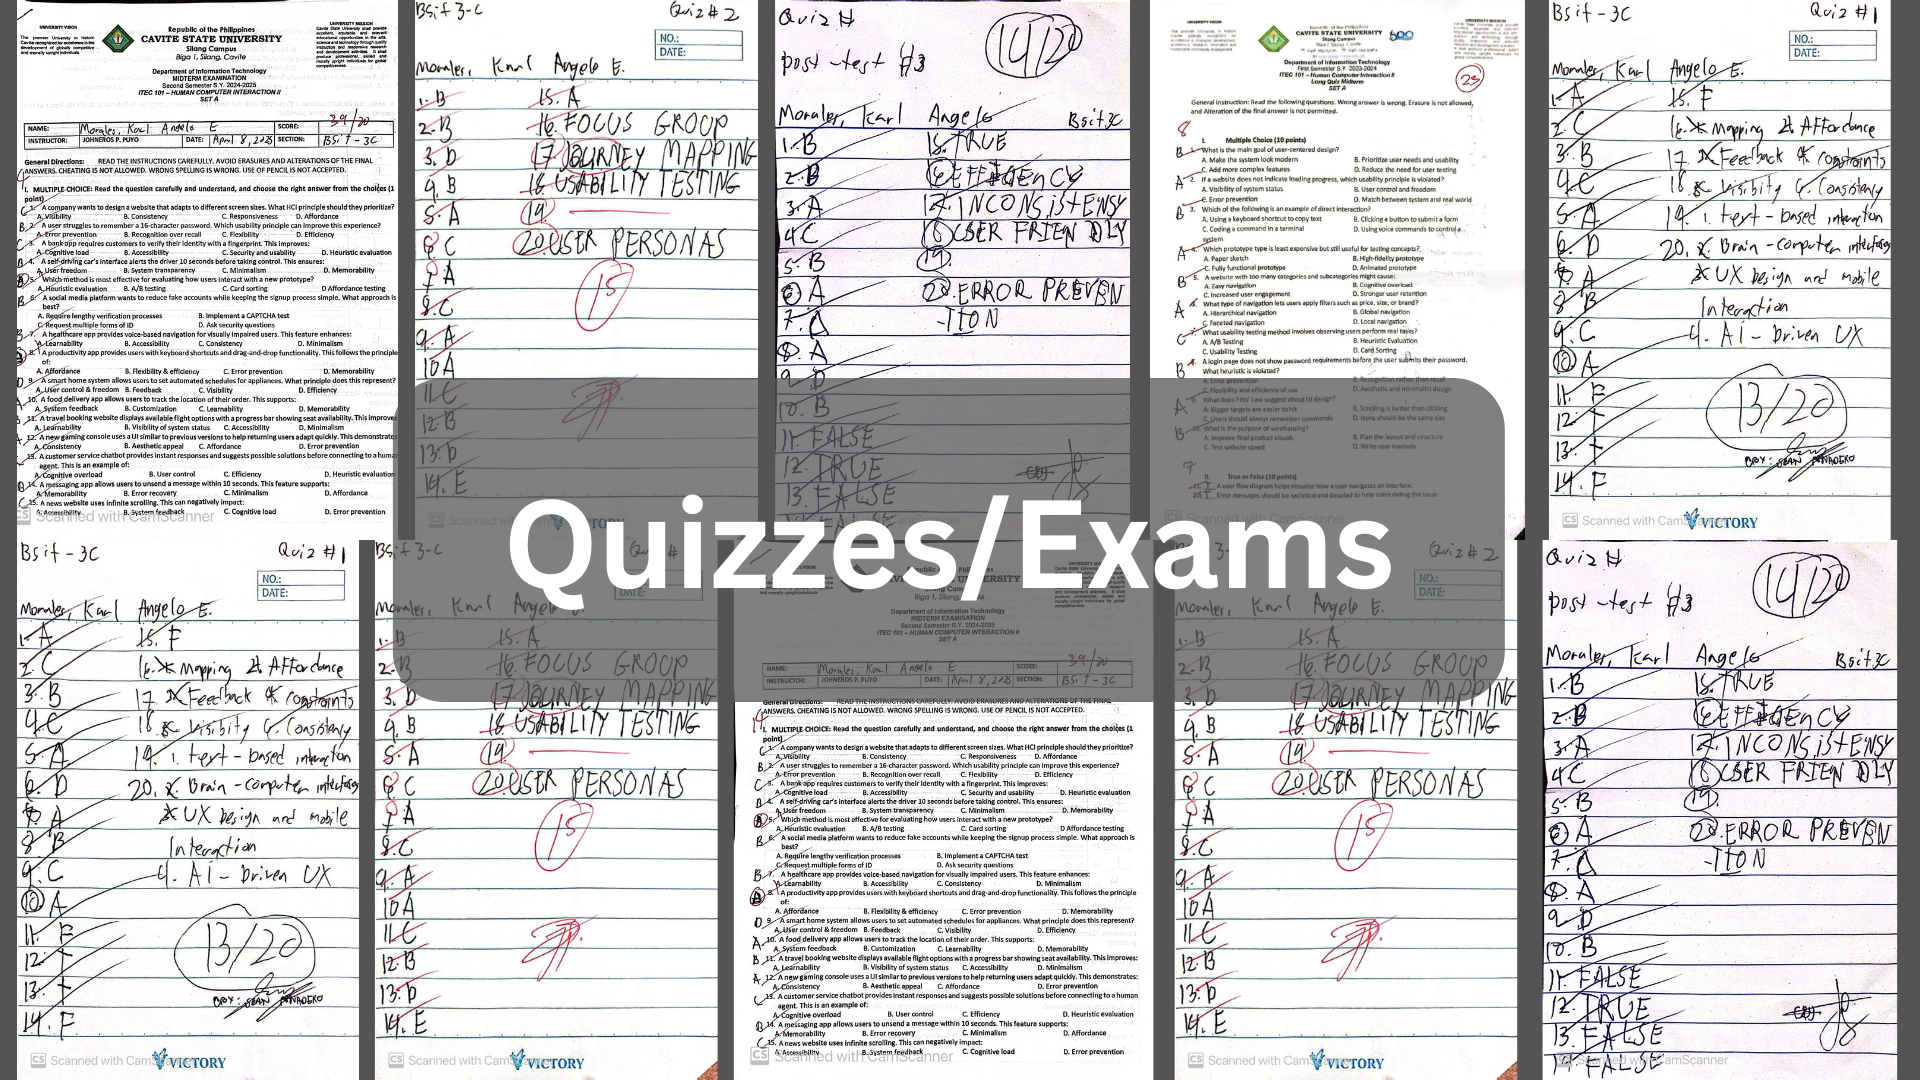
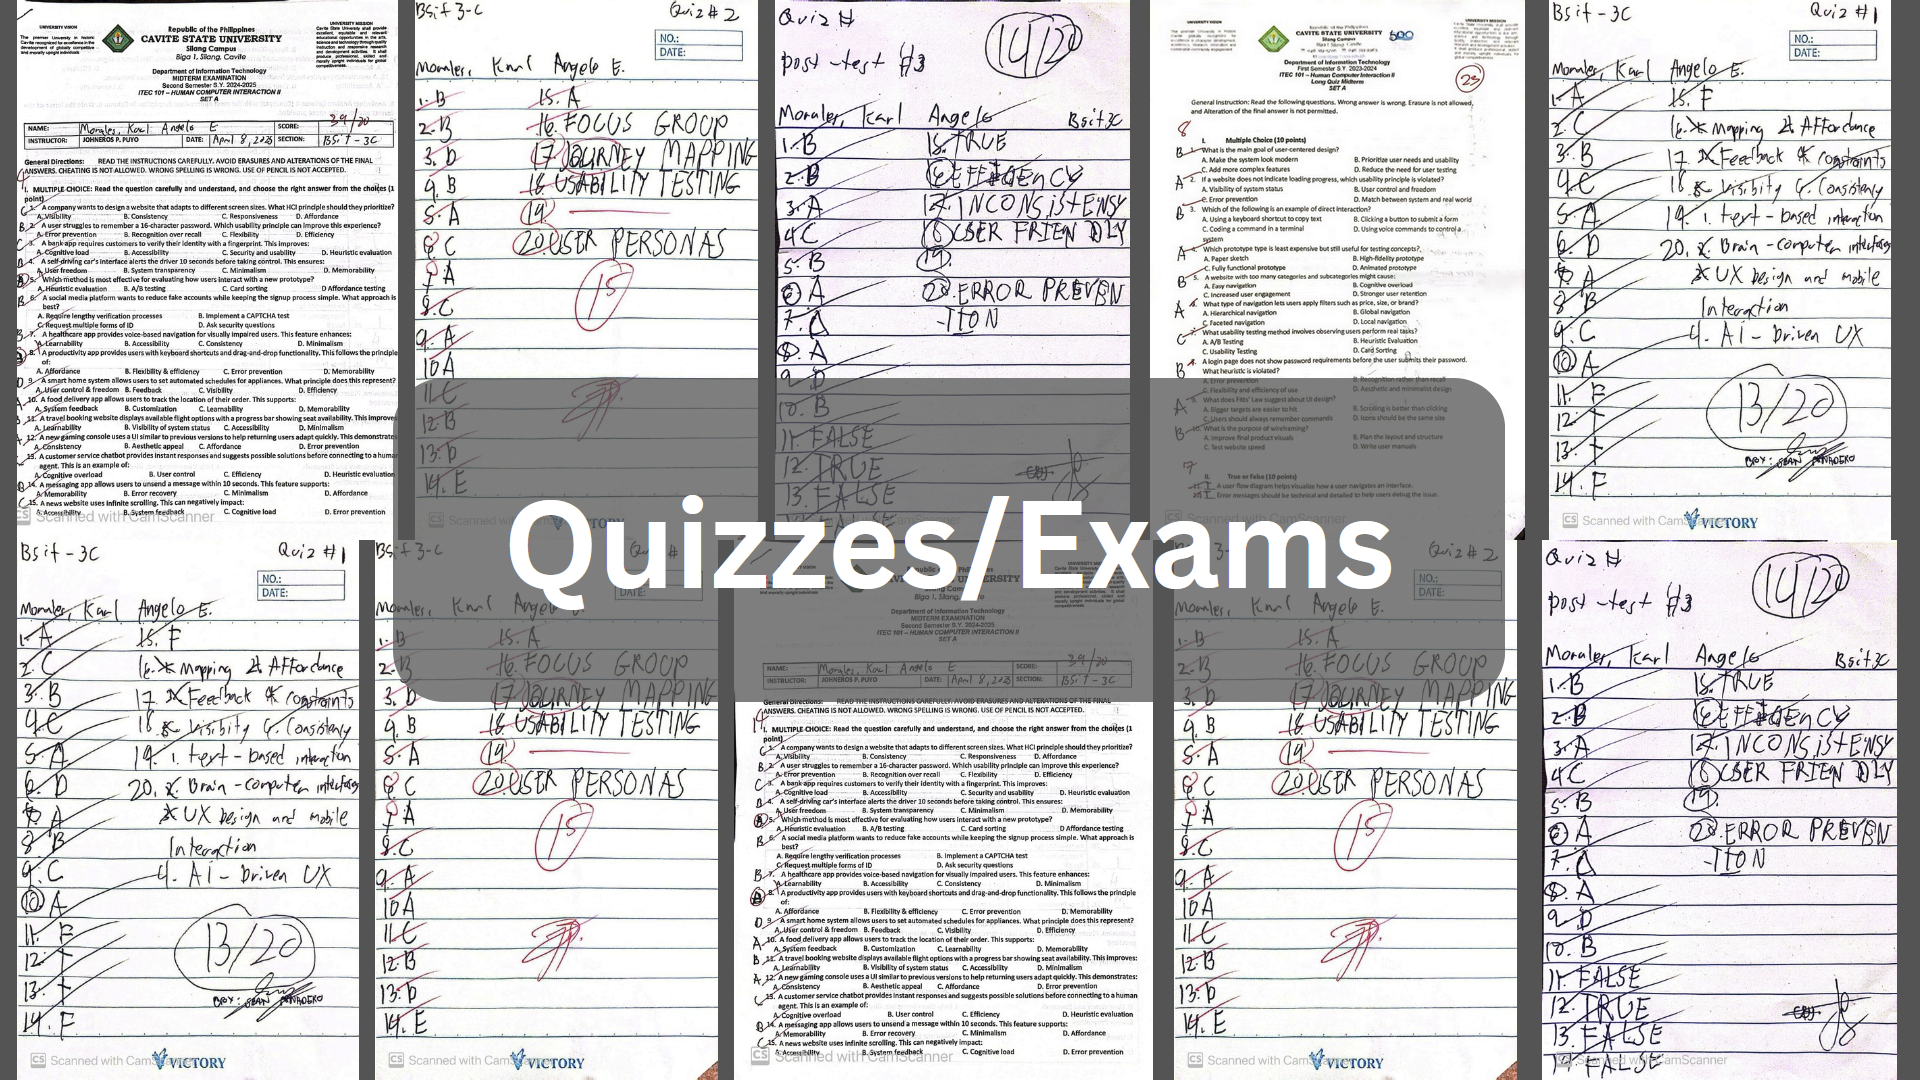
changesproj

diff --git a/index.html b/index.html
@@ -180,7 +180,7 @@
                 </div>
             </div>
             <div class="portfolio-box">
-                <img src="Images/Quizzes.PNG" alt="">
+                <img src="Images/Quizzes.png" alt="My Quizzes">
 
                 <div class="portfolio-layer">
                     <h4>My Quizzes and Exams</h4>
